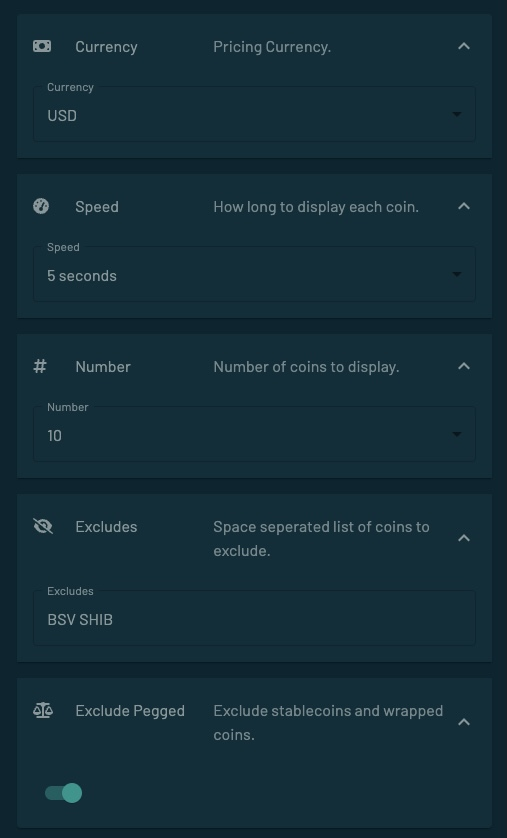
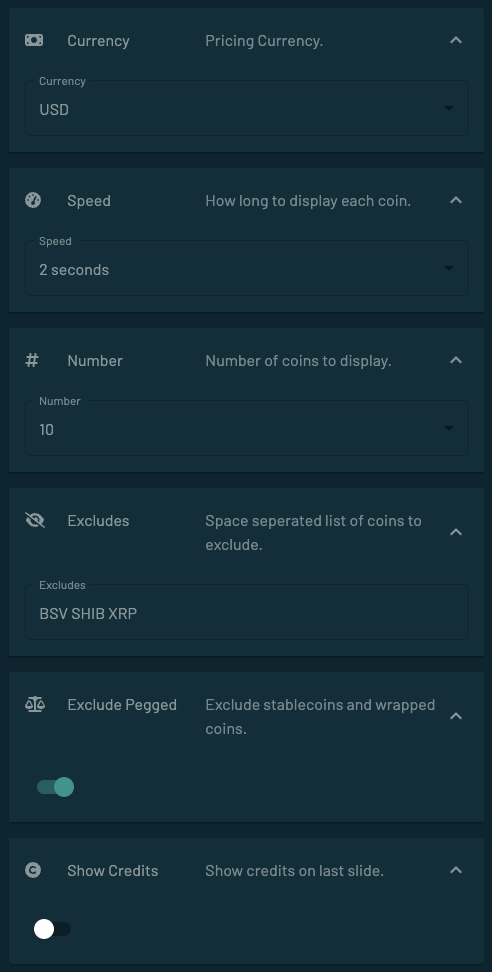
TopCryptoPrices improvements
Added some top fiat currencies for prices display, and made the credit screen optional, hidden by default.

diff --git a/apps/topcryptoprices/README.md b/apps/topcryptoprices/README.md
@@ -14,7 +14,7 @@ The gif animation shows a full animation loop, but looks kind of ugly compared t
 
 ![Top Crypto Prices Applet for Tidbyt gif animation](top_crypto_prices.gif)
 
-Many configuration options, eg you can show prices in AUD, CAD, CHF, CNY, EUR, GBP, INR, JPY, NOK, NZD, USD or ZAR.
+More than 20 fiat currencies to display prices in. All ticker symbols are colored after the coin logo colors. Stable coins and wrapped coins are excluded by default, but can be switched on. Further options to control rotation speed, number of coins, and manual excludes.
 
 ![Top Crypto Prices Applet for Tidbyt gif animation](topcryptoprises-config.jpg)
 
